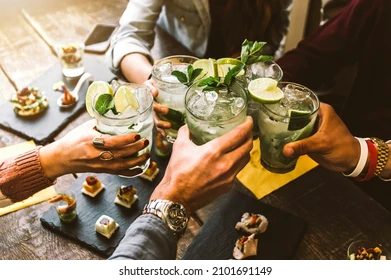
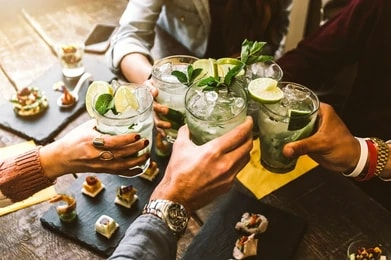
Update frontend security and invoice UI

diff --git a/next.config.ts b/next.config.ts
@@ -1,9 +1,129 @@
 import type { NextConfig } from "next";
 
+const isDevelopment = process.env.NODE_ENV !== "production";
+const productionBackendOrigin = "https://utsavas-backend-1.onrender.com";
+
+function getAllowedApiOrigin() {
+  const configuredApiUrl = process.env.NEXT_PUBLIC_API_URL;
+
+  if (!configuredApiUrl) {
+    return productionBackendOrigin;
+  }
+
+  try {
+    return new URL(configuredApiUrl).origin;
+  } catch {
+    return productionBackendOrigin;
+  }
+}
+
+const apiOrigin = getAllowedApiOrigin();
+
+const contentSecurityPolicy = [
+  "default-src 'self'",
+  [
+    "script-src",
+    "'self'",
+    "'unsafe-inline'",
+    isDevelopment ? "'unsafe-eval'" : "",
+    "https://checkout.razorpay.com",
+    "https://*.razorpay.com",
+  ].filter(Boolean).join(" "),
+  "style-src 'self' 'unsafe-inline' https://fonts.googleapis.com",
+  "font-src 'self' https://fonts.gstatic.com data:",
+  [
+    "img-src",
+    "'self'",
+    "data:",
+    "blob:",
+    "https:",
+    productionBackendOrigin,
+    apiOrigin,
+    "https://*.tile.openstreetmap.org",
+  ].join(" "),
+  [
+    "connect-src",
+    "'self'",
+    "http://localhost:5000",
+    productionBackendOrigin,
+    apiOrigin,
+    "https://maps.googleapis.com",
+    "https://*.googleapis.com",
+    "https://*.firebaseio.com",
+    "wss://*.firebaseio.com",
+    "https://*.firebaseapp.com",
+    "https://*.razorpay.com",
+  ].join(" "),
+  [
+    "frame-src",
+    "'self'",
+    "https://api.razorpay.com",
+    "https://checkout.razorpay.com",
+    "https://*.razorpay.com",
+    "https://www.google.com",
+    "https://maps.google.com",
+  ].join(" "),
+  "frame-ancestors 'none'",
+  "object-src 'none'",
+  "base-uri 'self'",
+  "form-action 'self'",
+  "manifest-src 'self'",
+  "worker-src 'self' blob:",
+  "media-src 'self' blob: data: https:",
+  isDevelopment ? "" : "upgrade-insecure-requests",
+].filter(Boolean).join("; ");
+
+const securityHeaders = [
+  {
+    key: "Content-Security-Policy",
+    value: contentSecurityPolicy,
+  },
+  {
+    key: "Strict-Transport-Security",
+    value: "max-age=63072000; includeSubDomains; preload",
+  },
+  {
+    key: "X-Frame-Options",
+    value: "DENY",
+  },
+  {
+    key: "X-Content-Type-Options",
+    value: "nosniff",
+  },
+  {
+    key: "Referrer-Policy",
+    value: "strict-origin-when-cross-origin",
+  },
+  {
+    key: "Permissions-Policy",
+    value:
+      "accelerometer=(), autoplay=(), camera=(), clipboard-read=(), display-capture=(), encrypted-media=(), fullscreen=(self), geolocation=(self), gyroscope=(), magnetometer=(), microphone=(), payment=(self), usb=()",
+  },
+  {
+    key: "Cross-Origin-Opener-Policy",
+    value: "same-origin-allow-popups",
+  },
+  {
+    key: "X-DNS-Prefetch-Control",
+    value: "on",
+  },
+  {
+    key: "X-Permitted-Cross-Domain-Policies",
+    value: "none",
+  },
+];
+
 const nextConfig: NextConfig = {
-  
   images: {
     unoptimized: true,
+  },
+  async headers() {
+    return [
+      {
+        source: "/(.*)",
+        headers: securityHeaders,
+      },
+    ];
   },
 };
 

diff --git a/app/(main)/my-bookings/[bookingId]/page.js b/app/(main)/my-bookings/[bookingId]/page.js
@@ -6,7 +6,7 @@ import { useEffect, useMemo, useState } from "react";
 import { useParams, useRouter } from "next/navigation";
 import { toAbsoluteImageUrl } from "../../../../lib/imageUrl";
 import {
-  formatBookingGstLabel,
+  TALME_INVOICE_COMPANY,
   resolveStoredBookingInvoiceBreakdown,
 } from "../../../../lib/bookingInvoice";
 import {
@@ -372,15 +372,12 @@ export default function MyBookingDetailPage() {
               <span>Taxable value</span>
               <strong>{formatCurrency(summary.invoice.taxableAmount)}</strong>
             </div>
-            <div className={styles.summaryRow}>
-              <span>
-                {formatBookingGstLabel({
-                  gstRate: summary.invoice.gstRate,
-                  hsnCode: summary.invoice.gstHsnCode,
-                })}
-              </span>
-              <strong>{formatCurrency(summary.invoice.gstAmount)}</strong>
-            </div>
+            {summary.invoice.taxRows.map((taxRow) => (
+              <div className={styles.summaryRow} key={taxRow.label}>
+                <span>{taxRow.label}</span>
+                <strong>{formatCurrency(taxRow.amount)}</strong>
+              </div>
+            ))}
             <div className={styles.summaryRow}>
               <span>Total bill</span>
               <strong>{formatCurrency(summary.invoice.totalAmount)}</strong>
@@ -395,8 +392,22 @@ export default function MyBookingDetailPage() {
             </div>
 
             <div className={styles.noteBox}>
+              <strong>Tax invoice details</strong>
+              <p>{TALME_INVOICE_COMPANY.legalName}</p>
+              <p>GSTIN: {TALME_INVOICE_COMPANY.gstin}</p>
+              <p>PAN: {TALME_INVOICE_COMPANY.pan}</p>
+              <p>HSN/SAC: {summary.invoice.gstHsnCode}</p>
+              <p>Place of supply: {summary.invoice.placeOfSupply}</p>
+              <p>{TALME_INVOICE_COMPANY.address}</p>
+            </div>
+
+            <div className={styles.noteBox}>
               <strong>Payment note</strong>
               <p>{getPaymentNote(booking)}</p>
+              <p>
+                Tax applied: {summary.invoice.taxModeLabel} on the taxable
+                value after coupon discount.
+              </p>
             </div>
           </section>
         </aside>

diff --git a/app/components/SeoSearchLinks.module.css b/app/components/SeoSearchLinks.module.css
@@ -30,12 +30,20 @@
   margin: 0 0 12px;
   color: #183b63;
   font-size: clamp(1.5rem, 2.2vw, 2.3rem);
+  display: -webkit-box;
+  -webkit-box-orient: vertical;
+  -webkit-line-clamp: 2;
+  overflow: hidden;
 }
 
 .copy p {
   margin: 0;
   color: #5e5551;
   line-height: 1.8;
+  display: -webkit-box;
+  -webkit-box-orient: vertical;
+  -webkit-line-clamp: 2;
+  overflow: hidden;
 }
 
 .grid {
@@ -66,6 +74,12 @@
 .card strong {
   color: #183b63;
   font-size: 1rem;
+  line-height: 1.45;
+  display: -webkit-box;
+  -webkit-box-orient: vertical;
+  -webkit-line-clamp: 2;
+  overflow: hidden;
+  min-height: calc(1em * 1.45 * 2);
 }
 
 .card span {

diff --git a/app/components/EventGallery.tsx b/app/components/EventGallery.tsx
@@ -17,11 +17,11 @@ const galleryItems = [
 
 const carouselItems = [
   { src: "/gallery/g13.jpg", label: "Venue Atmosphere" },
-  { src: "/gallery/g14.jpg", label: "Dining Layout" },
+  { src: "/gallery/g18.jpg", label: "Cocktail Hour" },
   { src: "/gallery/g15.jpg", label: "Decor Styling" },
   { src: "/gallery/g16.jpg", label: "Ceremony Details" },
   { src: "/gallery/g17.jpg", label: "Night Ambience" },
-  { src: "/gallery/g18.jpg", label: "Private Events" },
+  { src: "/gallery/g14.jpg", label: "Dining Layout" },
 ];
 
 export default function EventGallery() {